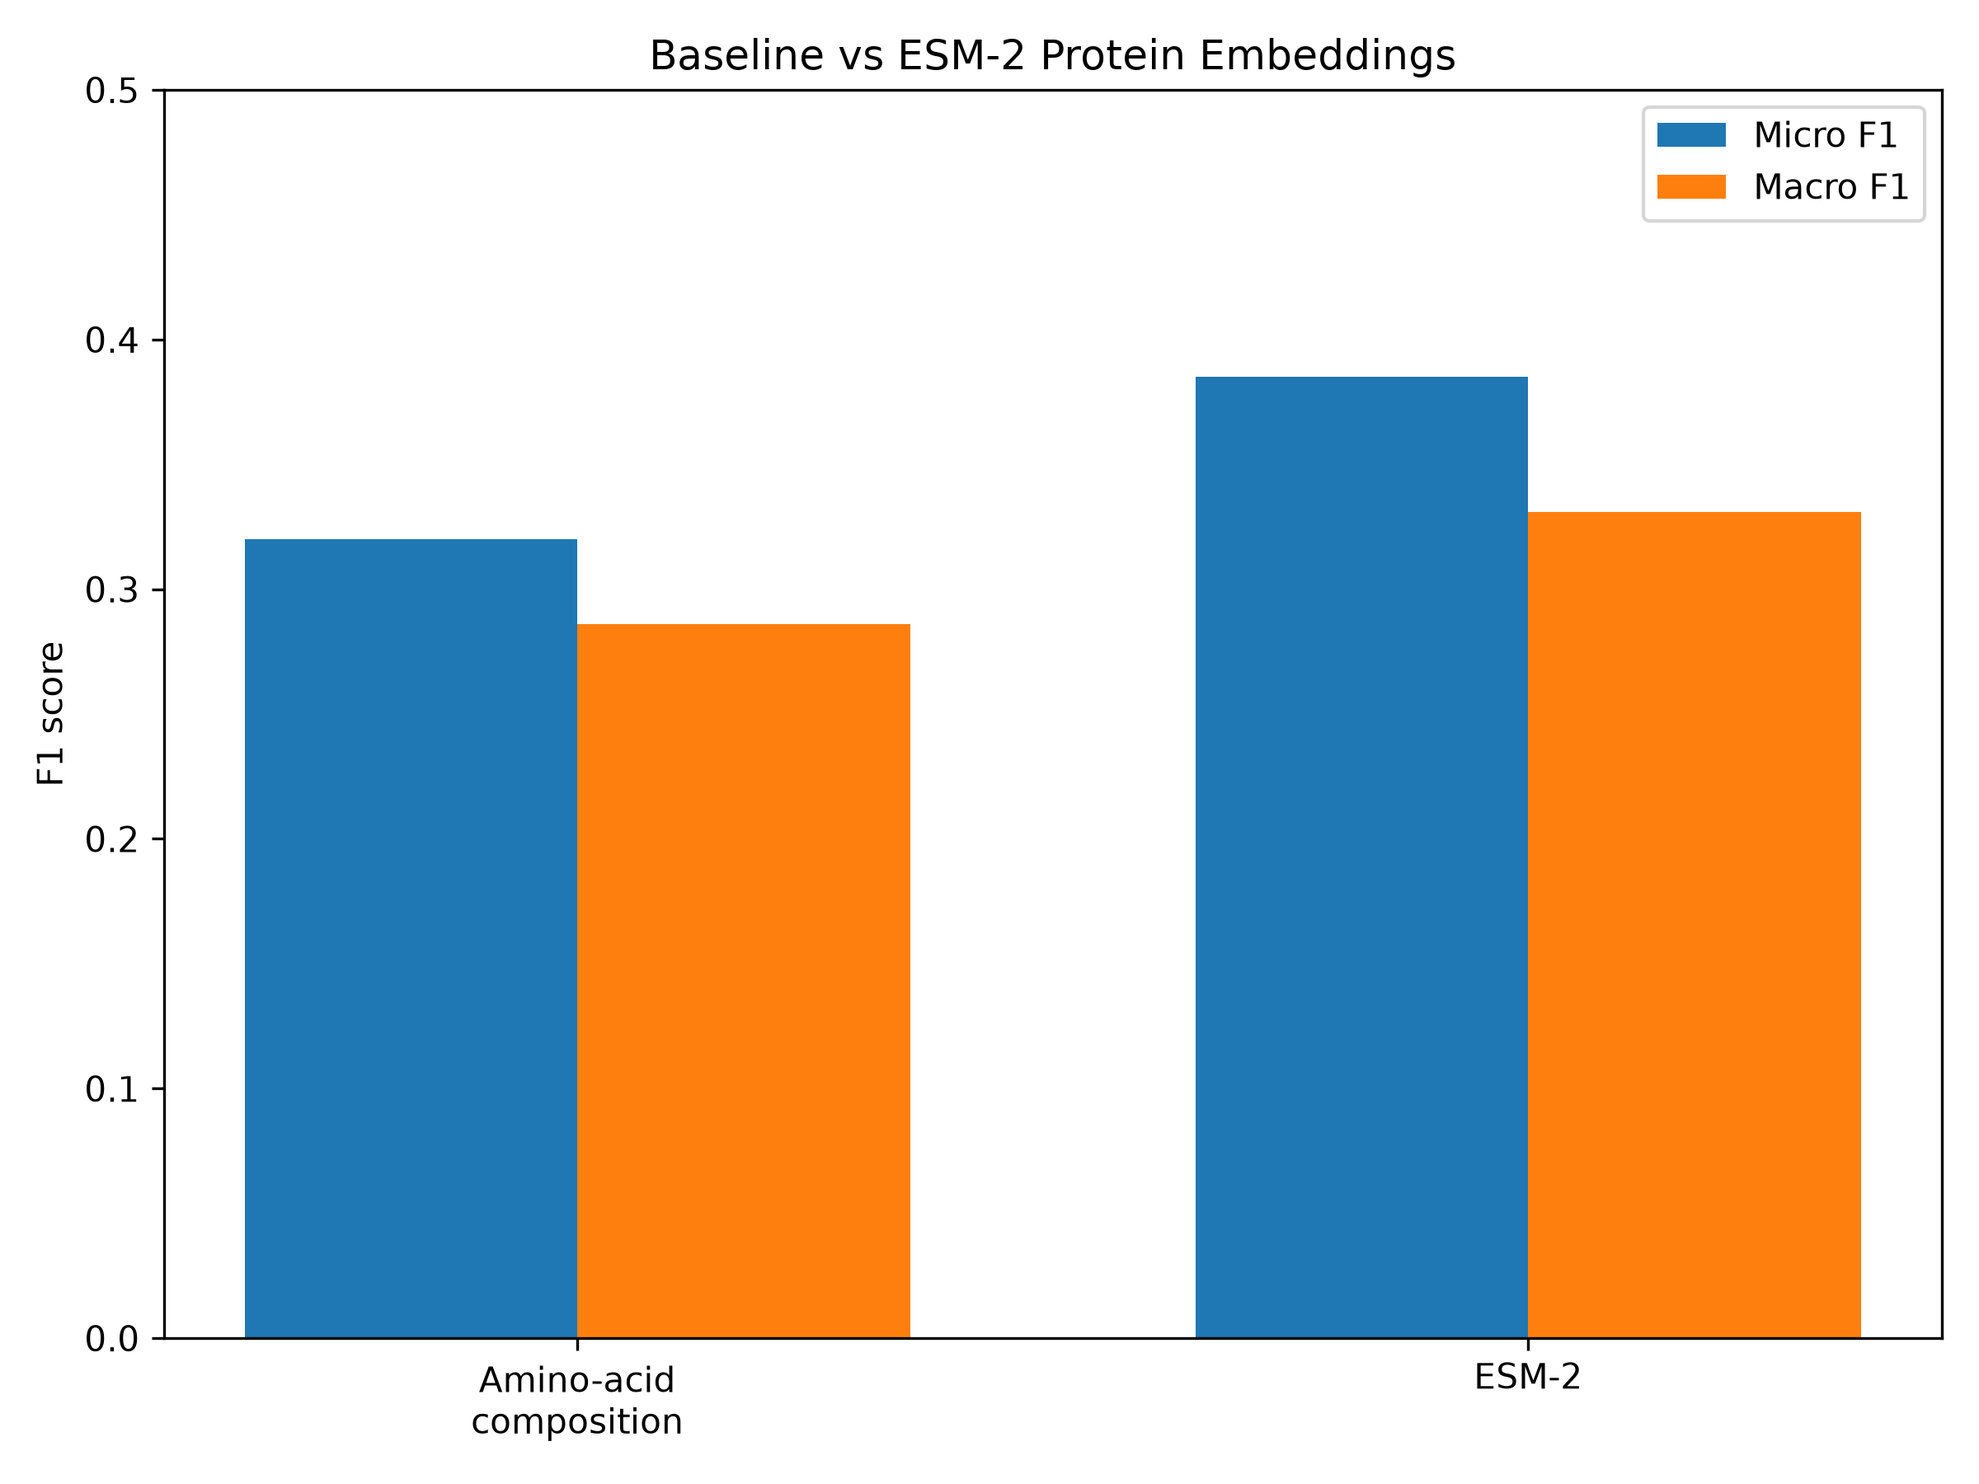
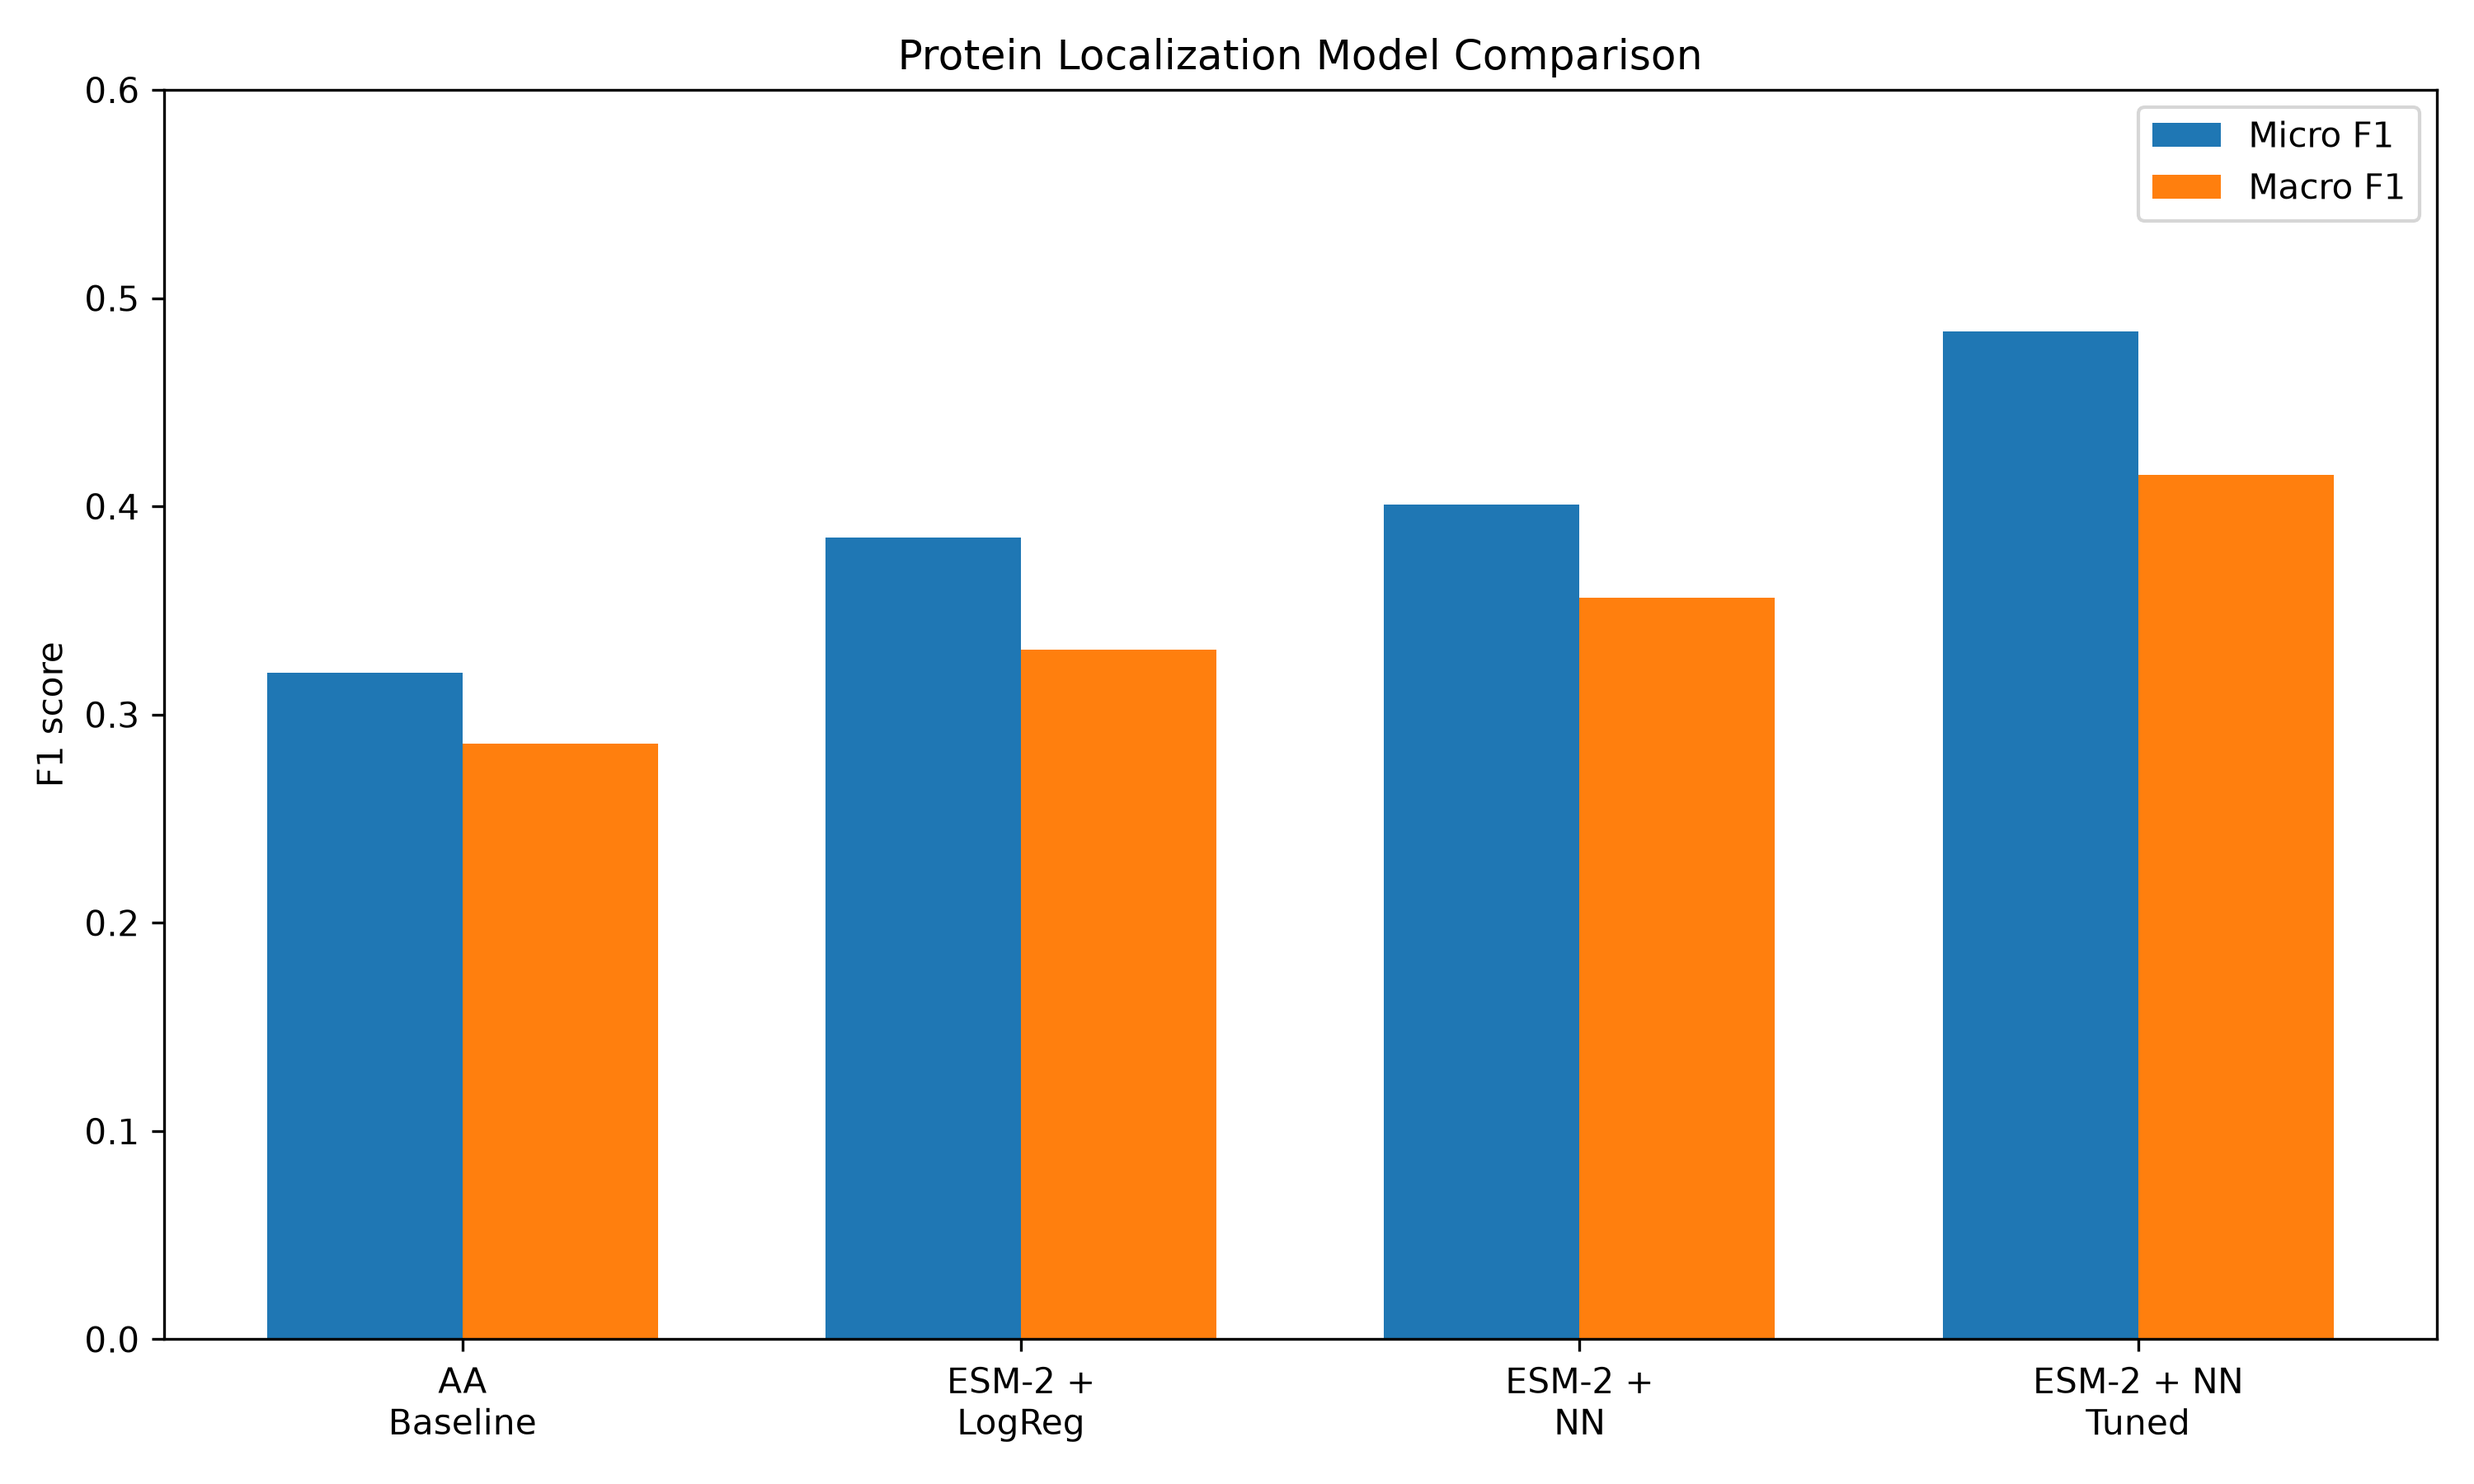
Update final model comparison figure

diff --git a/src/plot_model_comparison.py b/src/plot_model_comparison.py
@@ -38,17 +38,30 @@ ESM_F1 = [
 
 def plot_overall_comparison():
     model_names = [
-        "Amino-acid\ncomposition",
-        "ESM-2",
+        "AA\nBaseline",
+        "ESM-2 +\nLogReg",
+        "ESM-2 +\nNN",
+        "ESM-2 + NN\nTuned",
     ]
 
-    micro_scores = [0.320, 0.385]
-    macro_scores = [0.286, 0.331]
+    micro_scores = [
+        0.320,
+        0.385,
+        0.401,
+        0.484,
+    ]
+
+    macro_scores = [
+        0.286,
+        0.331,
+        0.356,
+        0.415,
+    ]
 
     x = np.arange(len(model_names))
     width = 0.35
 
-    plt.figure(figsize=(8, 6))
+    plt.figure(figsize=(10, 6))
 
     plt.bar(
         x - width / 2,
@@ -66,8 +79,8 @@ def plot_overall_comparison():
 
     plt.xticks(x, model_names)
     plt.ylabel("F1 score")
-    plt.ylim(0, 0.5)
-    plt.title("Baseline vs ESM-2 Protein Embeddings")
+    plt.ylim(0, 0.6)
+    plt.title("Protein Localization Model Comparison")
     plt.legend()
     plt.tight_layout()
 
